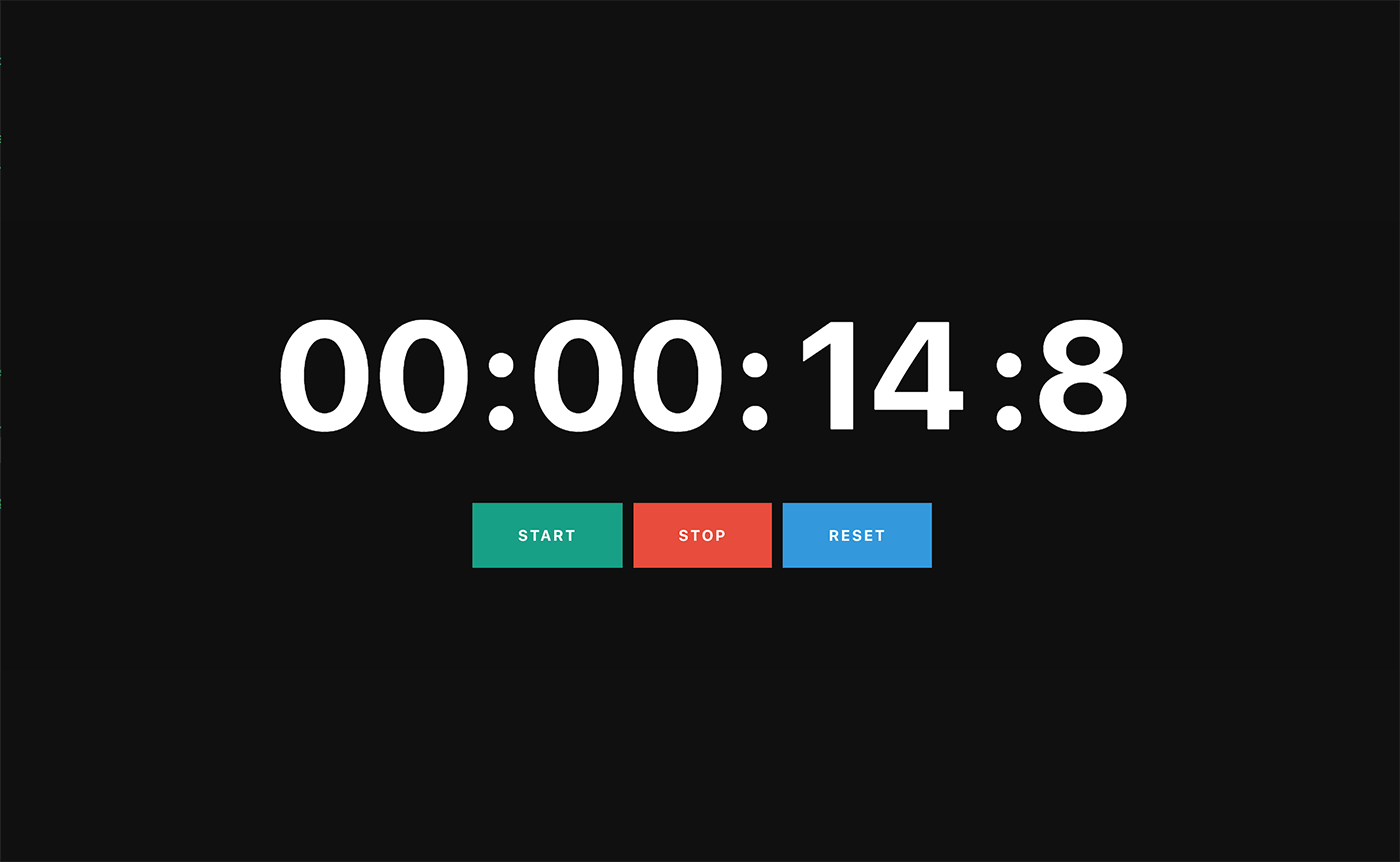
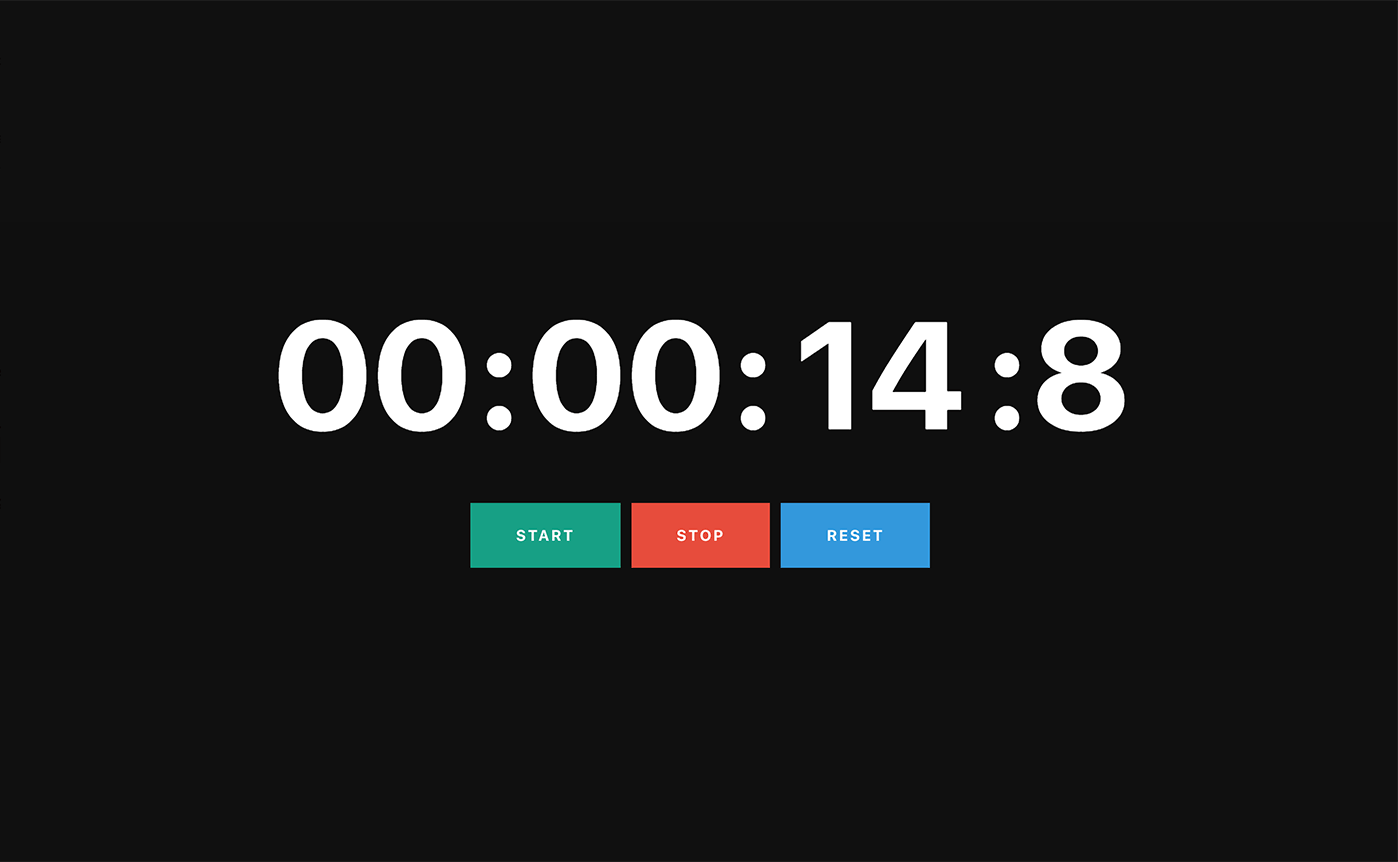
Update screenshot.

diff --git a/README.md b/README.md
@@ -2,4 +2,4 @@
 
 This a simple stopwatch app, built with React and Redux.
 
-![Project Screenshot](https://raw.githubusercontent.com/themeblvd/react-redux-stopwatch/master/screenshot.jpg)
+![Project Screenshot](https://raw.githubusercontent.com/themeblvd/react-redux-stopwatch/master/screenshot.png)
